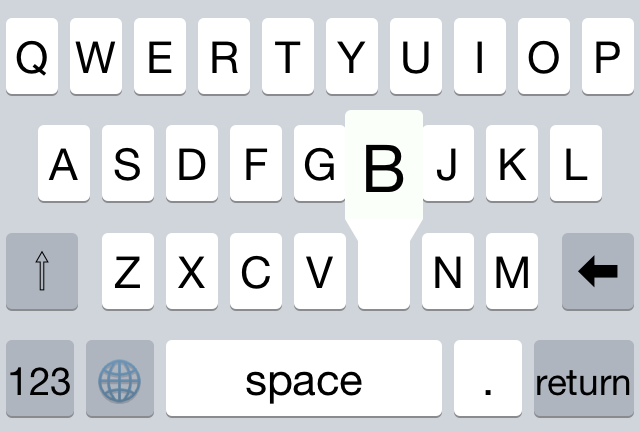
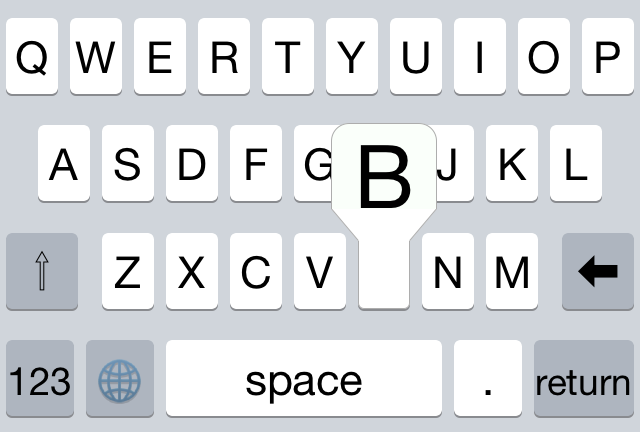
Bug fix, screenshot update.

Changed region(s): [[0.5, 0.331, 0.6875, 0.5417], [0.5312, 0.2407, 0.6875, 0.3009], [0.5, 0.3611, 0.5312, 0.4213]]

diff --git a/Keyboard/KeyboardKey.swift b/Keyboard/KeyboardKey.swift
@@ -83,13 +83,11 @@ class KeyboardConnector: UIView {
     
     override func didMoveToSuperview() {
         super.didMoveToSuperview()
-        generateConvertedPoints()
         self.resizeFrame()
     }
     
     override func layoutSubviews() {
         super.layoutSubviews()
-        generateConvertedPoints()
         resizeFrame()
     }
     
@@ -266,8 +264,7 @@ class KeyboardConnector: UIView {
     
     func showPopup() {
         if !self.popup {
-            let gap = 3
-            let popupSize = CGFloat(1.5)
+            let gap = 2
             
             var popupFrame = CGRectMake(0, 0, 53, 53)
             popupFrame.origin = CGPointMake(
@@ -314,6 +311,7 @@ class KeyboardConnector: UIView {
         var cornerRadius: Double
         var border: Bool {
         didSet {
+            generatePointsForDrawing() // TODO: add this elsewhere as well
             self.setNeedsDisplay()
         }
         }
